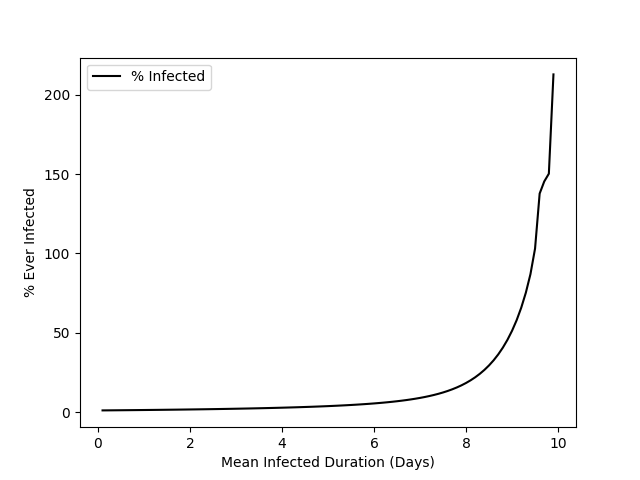
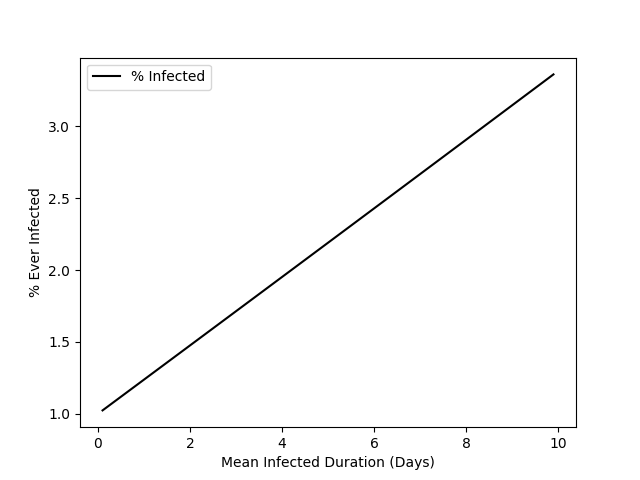
changing variables

diff --git a/hrenard_program3.py b/hrenard_program3.py
@@ -7,13 +7,13 @@ def runsim(
 	mean_infectious_duration = 10, 	         		# day
 	transmissibility = .6,                         		# infection / contact
 	contact_factor = .4,                          		# (contact / day) / person
-	mean_exposed = 9,                               	# day
+	mean_incubation = 9,                               	# day
 	mean_quarantine = 10,					# day
 	mean_death = 8,                                 	# day
 	plot = True):
 	
 	recovery_factor = 1 / mean_infectious_duration    	# 1 / day
-	exposed_factor = 1 / mean_exposed                      	# 1 / day
+	incubation_factor = 1 / mean_incubation                      	# 1 / day
 	quarantine_factor = 1 / mean_quarantine                 # 1 / day
 	death_factor = 1 / mean_death	                        # 1 / day
 
@@ -48,7 +48,7 @@ def runsim(
 		quarantine_recovery_rate = Q[i - 1] * recovery_factor  			# recoveries / day
 		quarantine_death_rate = Q[i - 1] * death_factor				# deaths / day
 		
-		infectious_rate = SI_contact_rate * transmissibility 			# infections / day
+		infectious_rate = E[i - 1] * incubation_factor			# infections / day
 		infection_recovery_rate = I[i - 1] * recovery_factor  			# recoveries / day
 		infection_death_rate = I[i - 1] * death_factor				# deaths / day
 
